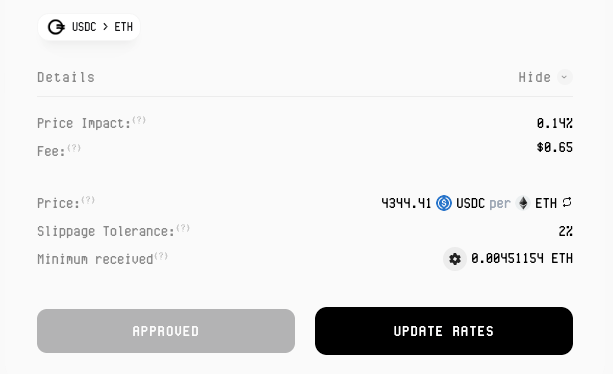
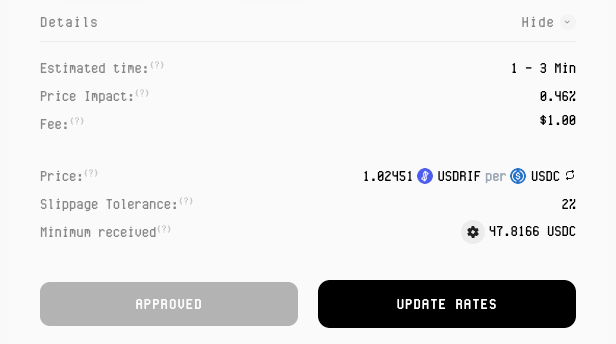
update images

diff --git a/docs/04-resources/04-tutorials/symbiosis-rootstock.md b/docs/04-resources/04-tutorials/symbiosis-rootstock.md
@@ -35,7 +35,7 @@ Symbiosis is a cross-chain AMM DEX that enables asset transfers and swaps on Roo
 
 ![Confirm Spending Cap USDRIF](/img/resources/tutorials/symbiosis/2-confirm-spending-cap.png)
 
-5. Rates often fluctuates, click the ‘Update Rates’ button
+5. Rates often fluctuates, click to ‘Update Rates’.
 
 ![Update Rates](/img/resources/tutorials/symbiosis/3-update-rates.png)
 
@@ -73,9 +73,13 @@ On the destination chain without its **native token**? You can use **Symbiosis**
 
 > Note: Fees are paid in the token you’re swapping, not in the native token.
 
-3. Rates often fluctuates, click the ‘Update Rates’ button
+3. Rates often fluctuates, click to ‘Update Rates’.
 
-![Symbiosis Updated rates](/img/resources/tutorials/symbiosis/10-updated-rate-change.png)
+![Update Rates](/img/resources/tutorials/symbiosis/3a-update-rates.png)
+
+Observe the rate changes in the image below:
+
+![View Updated Rates](/img/resources/tutorials/symbiosis/4a-view-updated-rates.png)
 
 4. Click ‘Swap’ and confirmation the transaction in your wallet.
 
